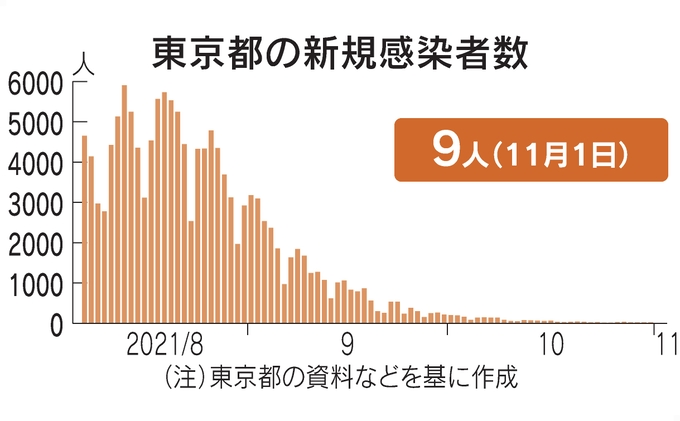
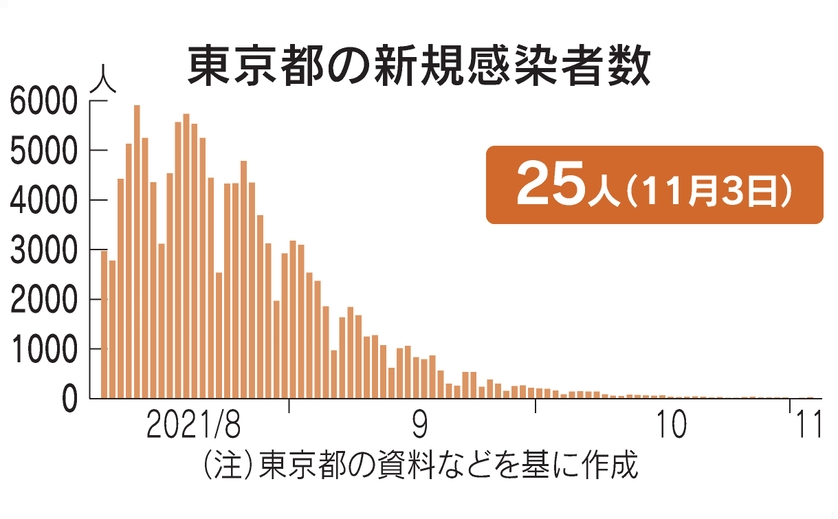
regular update

diff --git a/parts/news.php b/parts/news.php
@@ -57,6 +57,44 @@
         </li>
 
     <hr> -->
+        2021年11月03日
+    
+        <li>
+                <i class="far fa-file-alt"></i>
+                <a href="https://www.nikkei.com/article/DGXZQOCC031OF0T01C21A1000000/" target="blank" rel="noopener">
+                東京都、新たに25人感染　7日平均で前週の72.8%</a>
+        </li>
+        <li>
+                <i class="far fa-file-alt"></i>
+                <a href="https://www.nikkei.com/article/DGXZQOUA222MP0S1A021C2000000/" target="blank" rel="noopener">
+                ワクチン記録ミス頻発　3回目接種や証明書、滞る懸念</a>
+        </li>
+        <li>
+                <i class="far fa-file-alt"></i>
+                <a href="https://www.nikkei.com/article/DGXZQOUF026K40S1A101C2000000/" target="blank" rel="noopener">
+                田辺三菱コロナワクチン、カナダ実用化「21年度内に」</a>
+        </li>
+
+    <hr>
+    2021年11月02日
+        <li>
+                <i class="far fa-file-alt"></i>
+                <a href="https://www.nikkei.com/article/DGXZQOCC020BH0S1A101C2000000/" target="blank" rel="noopener">
+                東京都、新たに18人感染　7日平均で前週の76.6%</a>
+        </li>
+        <li>
+                <i class="far fa-file-alt"></i>
+                <a href="https://www.nikkei.com/article/DGXZQOCD011KN0R01C21A1000000/" target="blank" rel="noopener">
+                緊急事態宣言解除、それでも個人消費の回復が鈍いワケ</a>
+        </li>
+        <li>
+                <i class="far fa-file-alt"></i>
+                <a href="https://www.nikkei.com/article/DGXZQOUA0123G0R01C21A1000000/" target="blank" rel="noopener">
+                働く女性の自殺が増加　21年版白書、コロナ禍も影響</a>
+        </li>
+
+    <hr>
+
         2021年11月01日
     
         <li>
